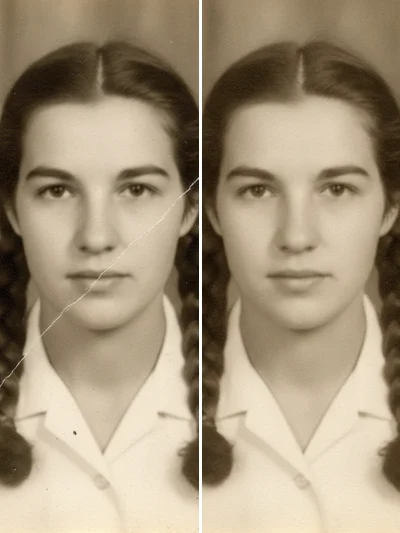
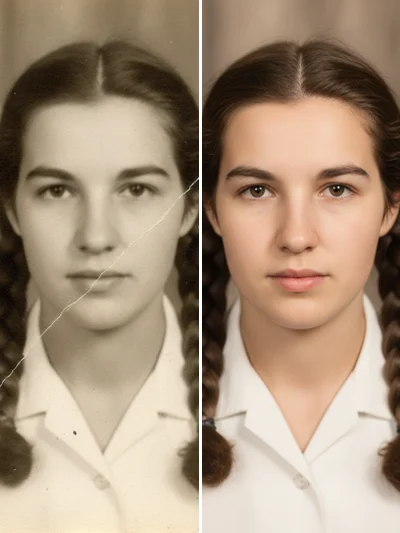
fix(restore): 복원 결과가 여전히 옛날 사진 같던 문제 — 프롬프트 재작성
'시대 미감 유지'/'그 시대 팔레트로 채색'/'다큐 컬러리스트' 지시가 빈티지 톤을
계속 유지시키고 있었음. 제거하고 '오늘 촬영한 새 사진'으로 재정의:
세피아·누런톤·빛바램·필름그레인·종이질감 명시적 금지, 뉴트럴 화이트밸런스,
현대 스튜디오 조명, 모공·머리카락 디테일. 인물/포즈/의상/구도는 그대로 유지.
썸네일도 새 결과로 갱신.

Claude-Session: https://claude.ai/code/session_01LWr5ab7J4JTBw7ZuaFTdUC

diff --git a/api/generate.js b/api/generate.js
@@ -301,36 +301,30 @@ export default async function handler(req, res) {
     : isIdPhoto
     ? idInstruction
     : isRestore
-    ? "Photographic restoration of a vintage photograph to modern quality.\n\n" +
-      "PRESERVE ABSOLUTELY EVERYTHING in the original image:\n" +
-      "- All subjects' faces, expressions, skin tones, and facial features\n" +
-      "- All clothing, accessories, and fabric details exactly as they appear\n" +
-      "- The exact composition, framing, and spatial layout\n" +
-      "- All subjects' poses, body language, and positioning\n" +
-      "- The background environment, setting, and all objects within it\n" +
-      "- The time period aesthetic of the scene itself\n\n" +
-      "ONLY UPDATE the following:\n" +
-      "- Image resolution and sharpness upgraded to 8K ultra-high definition\n" +
-      "- Grain, noise, and analog film artifacts fully removed\n" +
-      "- Faded or discolored tones restored to accurate, vivid natural colors\n" +
-      "- Dynamic range expanded — lifted shadows, recovered highlights\n" +
-      "- Rendered as if captured on a Sony A7R V mirrorless camera with a 85mm f/1.4 G Master lens, " +
-      "natural ambient lighting, zero digital noise\n\n" +
-      "The result must look like the exact same moment was photographed by a professional photographer " +
-      "using a top-tier 2024 full-frame mirrorless camera. No creative reinterpretation. No style " +
-      "changes. No subject alterations. A faithful, documentary-grade restoration — same scene, same " +
-      "people, same clothes, same background — simply brought into the modern era through photographic " +
-      "quality alone.\n\n" +
-      "If the original photograph is black and white, restore it with historically accurate, natural " +
-      "color. Do not oversaturate. Skin tones must appear lifelike and warm. Clothing colors should " +
-      "reflect the era's typical palette. Color as a documentary colorist would, not as an artist.\n\n" +
-      "If the original photograph contains physical damage such as scratches, tears, stains, or water " +
-      "marks, remove all damage artifacts completely. Reconstruct any missing areas using contextual " +
-      "inference to match the surrounding scene seamlessly. No trace of damage should remain.\n\n" +
-      "If this is a group or family photograph, every individual's identity must be preserved with " +
-      "equal fidelity. No face may be altered, smoothed beyond natural restoration, or changed in any " +
-      "way. Restore each person with the same level of detail and sharpness.\n\n" +
-      "Photorealistic. Hyper-detailed. True-to-life color accuracy."
+    ? "Re-photograph this old photo as if the very same person, in the very same pose and outfit, " +
+      "were photographed TODAY with a professional modern digital camera. The output must look like a " +
+      "brand-new photograph taken this year — NOT like a repaired old photo.\n\n" +
+      "KEEP EXACTLY THE SAME (identity must be unmistakable):\n" +
+      "- The person's face, bone structure, eyes, nose, mouth, facial proportions and age\n" +
+      "- Hairstyle, clothing, accessories and how they are worn\n" +
+      "- Pose, head angle, gaze direction, expression\n" +
+      "- Composition, crop and framing\n\n" +
+      "MAKE IT A MODERN PHOTOGRAPH:\n" +
+      "- Full natural color. If the original is black-and-white or sepia, render it in true, lifelike " +
+      "color with healthy warm skin tones — absolutely NO sepia cast, NO yellow/brown tint, NO faded look.\n" +
+      "- Clean neutral white balance and modern color grading, like a current studio portrait.\n" +
+      "- Crisp modern studio or soft daylight lighting with gentle falloff; bright, clean exposure.\n" +
+      "- Ultra-sharp focus with fine real detail: individual hair strands, natural skin texture with " +
+      "visible pores, fabric weave. Realistic depth of field with a smoothly rendered background.\n" +
+      "- Remove ALL age artifacts completely: film grain, noise, blur, scratches, creases, folds, tears, " +
+      "stains, dust, halation, vignetting, paper texture, borders and any print edges. None may remain.\n" +
+      "- Reconstruct damaged or missing areas naturally from context.\n\n" +
+      "STRICTLY AVOID anything that reads as 'old': no vintage filter, no film emulation, no muted or " +
+      "washed-out palette, no low resolution, no soft focus, no paper/print artifacts, no antique framing.\n\n" +
+      "If several people are in the photo, every person must be restored with equal fidelity and keep " +
+      "their own identity.\n\n" +
+      "Result: a high-resolution, photorealistic portrait indistinguishable from one shot today on a " +
+      "full-frame mirrorless camera with an 85mm f/1.4 lens — same person, same moment, modern photo."
     : skipFacePrecheck
     ? "Re-render the provided image in a new artistic style. " +
       "The subject can be a person, landscape, animal, object, or anything else. " +
